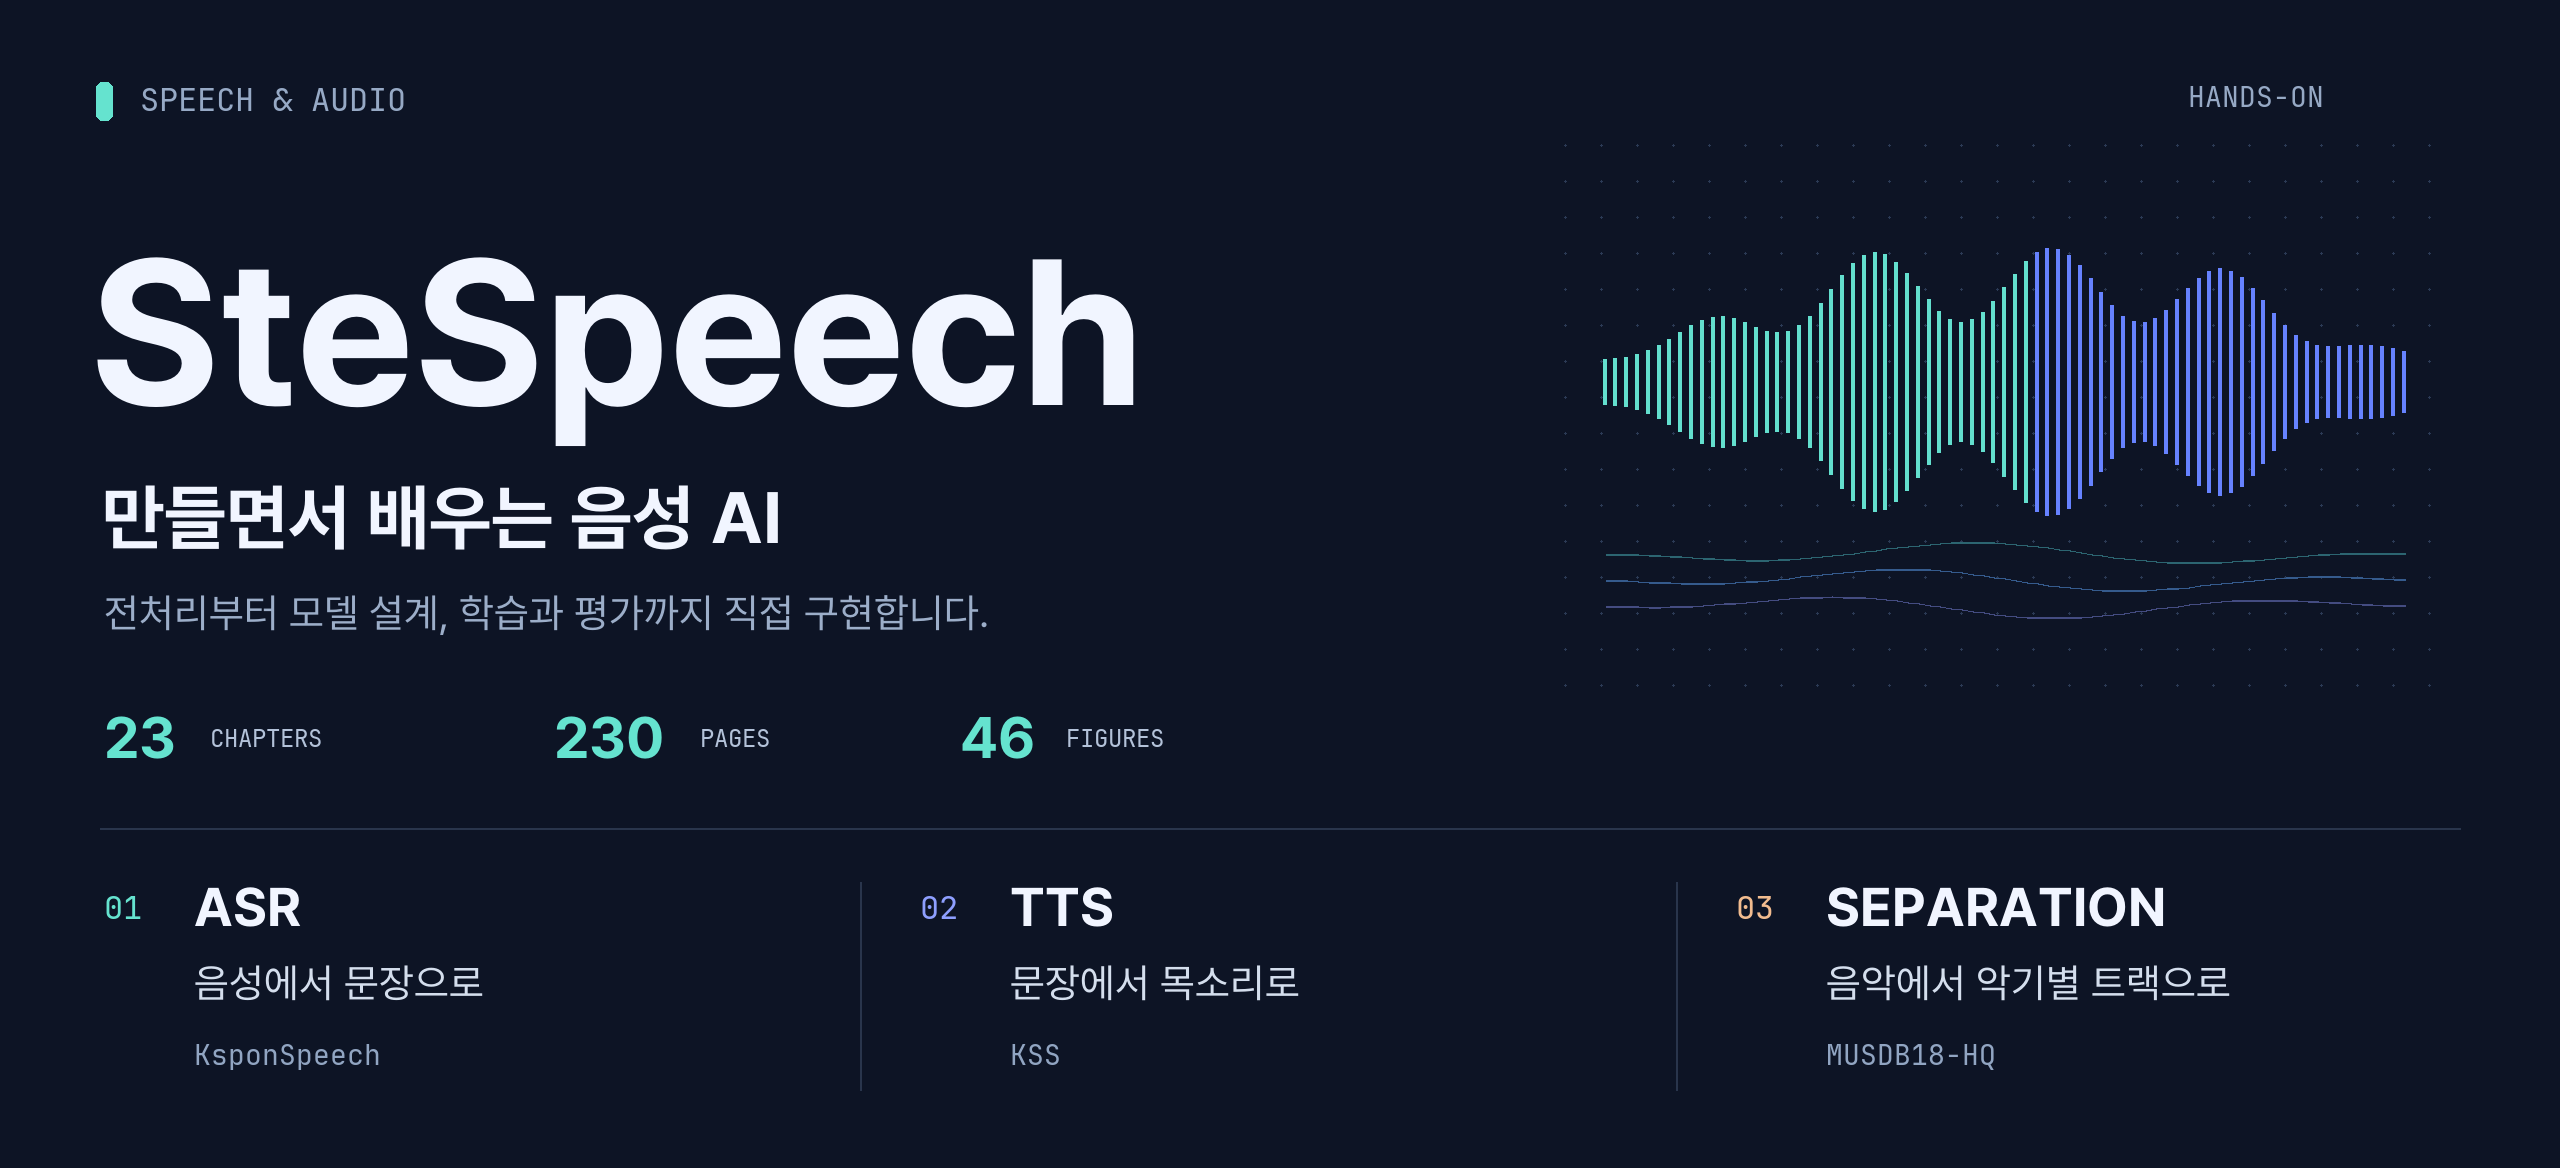
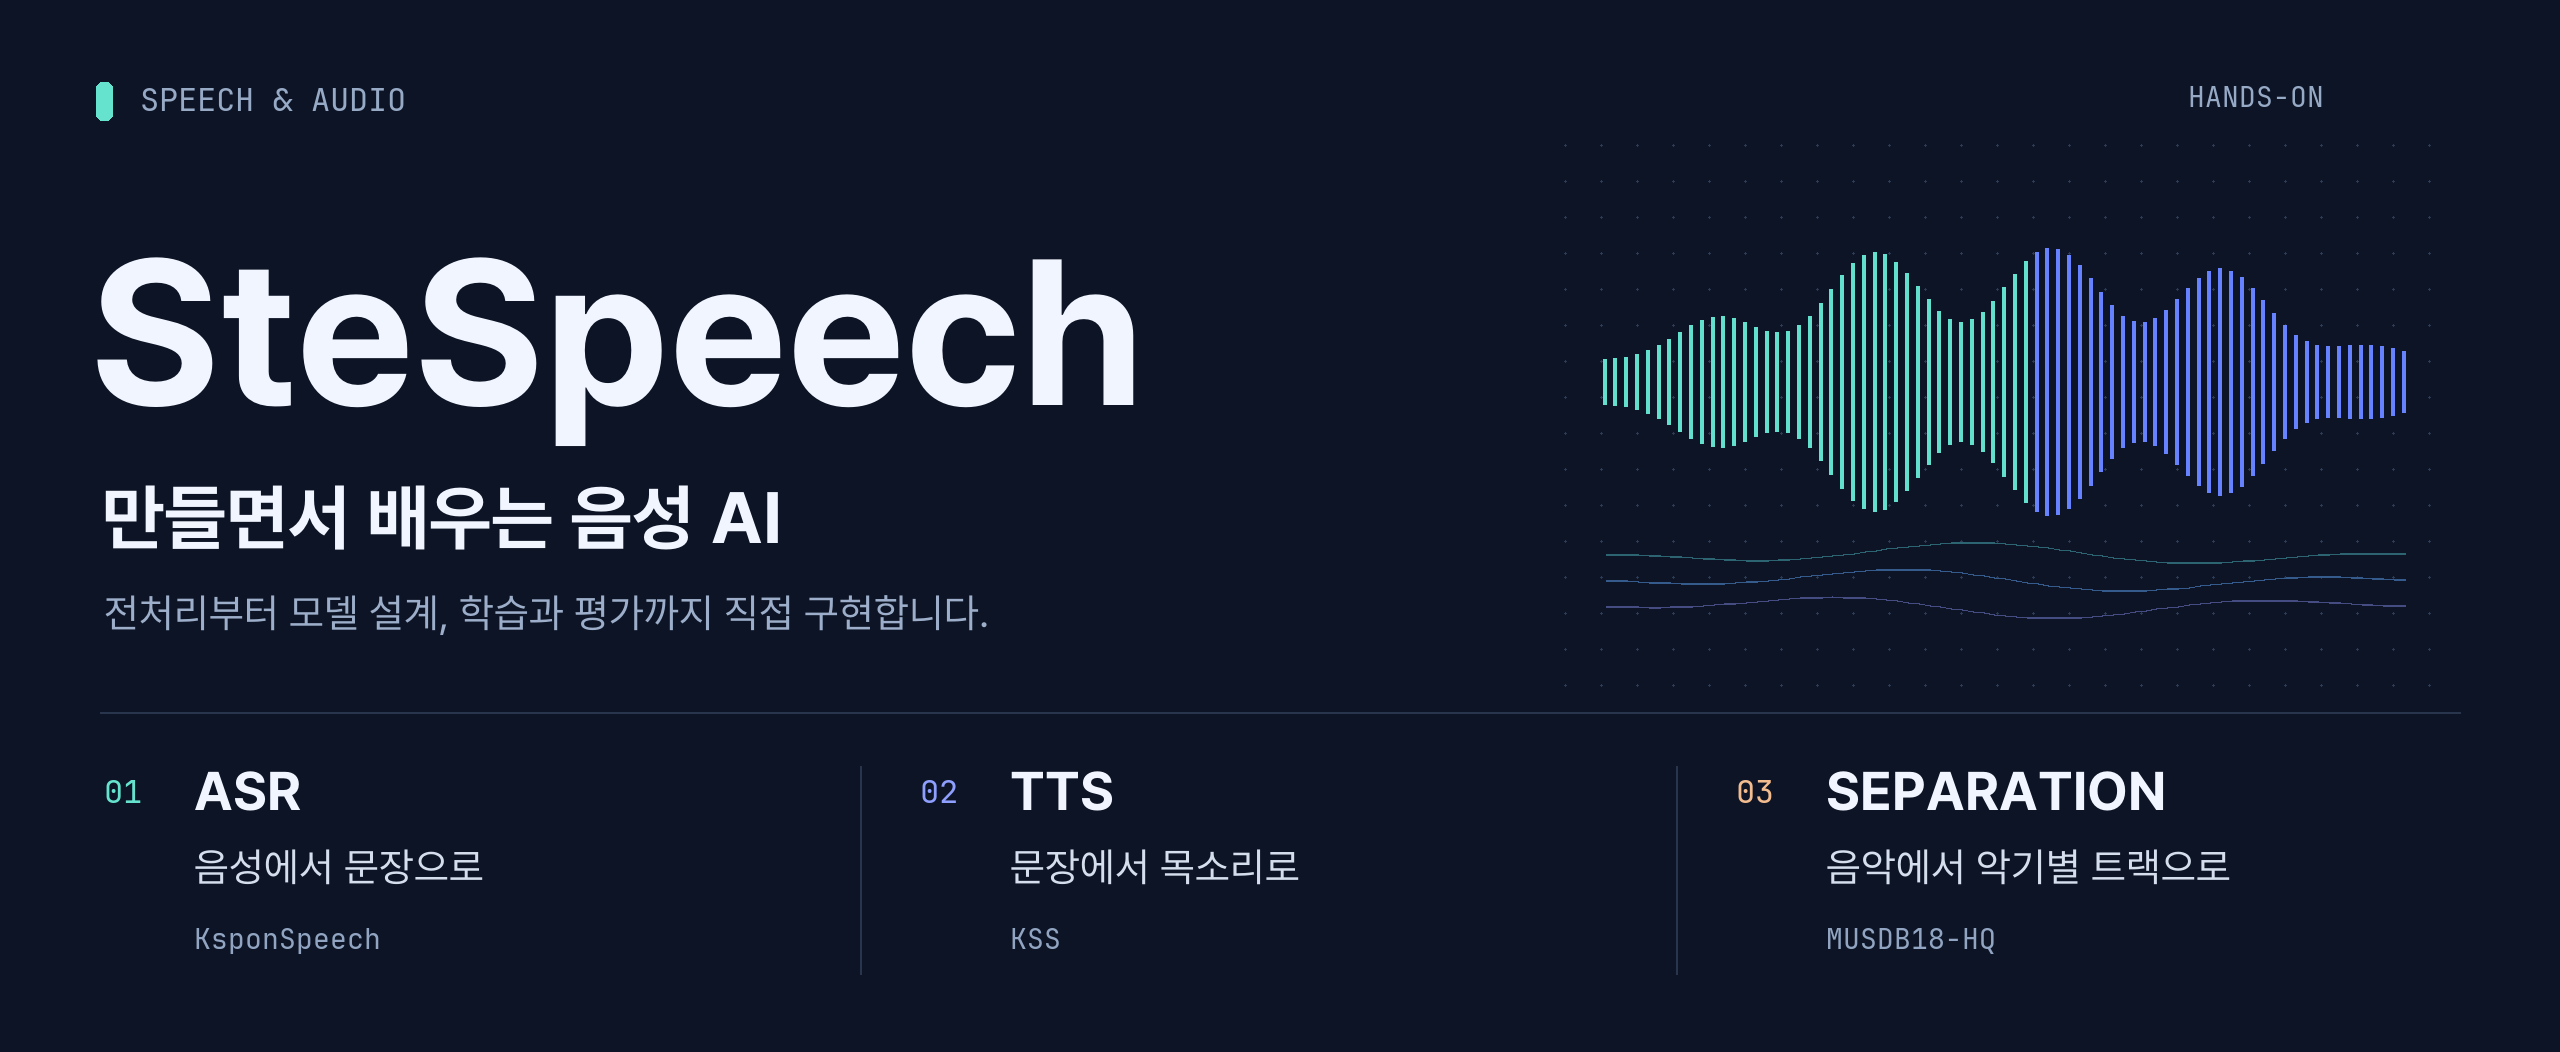
Remove course count badges from repository introduction

diff --git a/.github/README.md b/.github/README.md
@@ -11,8 +11,6 @@
 
 음성을 문장으로, 문장을 목소리로, 음악을 악기별 트랙으로 바꾸는 과정을 **PyTorch 코드로 직접 구현**합니다. 전처리와 텐서의 형태부터 모델 구조, 손실 함수, 학습 루프, 평가 지표까지 하나씩 연결합니다.
 
-**한국어 23개 챕터 · 230쪽 강의록 · 46개 설명 그림 · 소스 줄번호가 포함된 코드 해설**
-
 ## 세 가지 실습
 
 | | 01 · ASR | 02 · TTS | 03 · 악기 분리 |
@@ -57,7 +55,7 @@
 </tr>
 </table>
 
-공개 예제는 강의용 그림에만 사용합니다. 전체 학습용 데이터셋은 포함하지 않습니다. [예제 출처와 파일 해시](../lecture/media/provenance.json) · [46개 그림 전체 보기](../lecture/figures)
+공개 예제는 강의용 그림에만 사용합니다. 전체 학습용 데이터셋은 포함하지 않습니다. [예제 출처와 파일 해시](../lecture/media/provenance.json) · [설명 그림 전체 보기](../lecture/figures)
 
 ## 커리큘럼
 
@@ -72,7 +70,7 @@
 | **22 · 다음 실험** | 발전 모델과 실험 설계 | [강의록](../lecture/SteSpeech-KO.pdf) |
 
 <details>
-<summary><b>23개 챕터 전체 목차 펼치기</b></summary>
+<summary><b>전체 목차 펼치기</b></summary>
 
 | 번호 | 제목 | 번호 | 제목 |
 | :--- | :--- | :--- | :--- |
